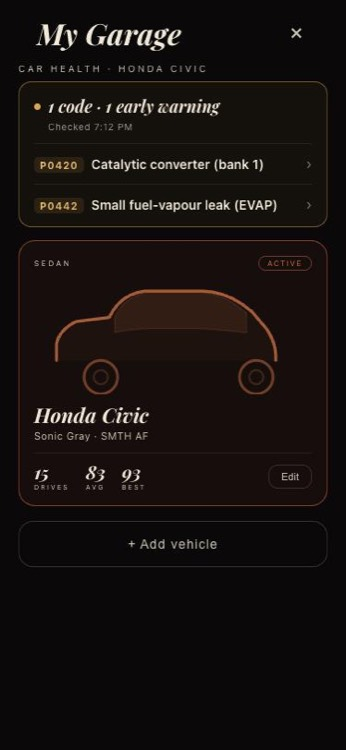
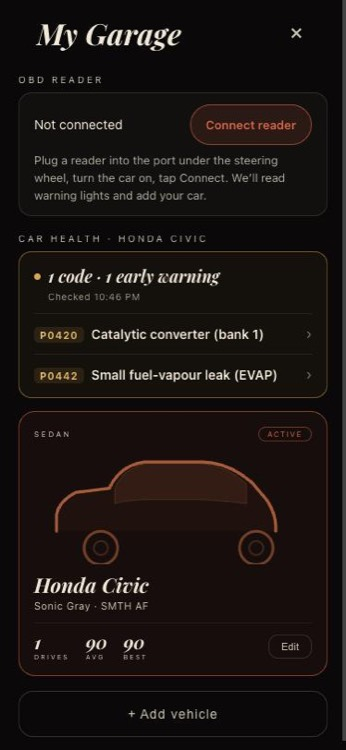
F2 UI review fixes + wireframes update
Garage reader row: label outside the box like Car Health, status wraps
beside the button, green dot + quiet Disconnect when connected, setup help
only until a reader has been set up, 'Name · Connected' instead of PIDs,
44px targets, web build shows a disabled button with a clear message.
Wireframes: new Garage screenshot with the reader row; Sensors note
corrected (the drawer opens fine in real drives); finding removed, F1-F20.

diff --git a/docs/wireframes.html b/docs/wireframes.html
@@ -135,32 +135,31 @@
   <section id="audit">
     <span class="lbl">The audit</span>
     <h2>What we found</h2>
-    <p class="col dim">Ranked by how much it hurts a driver. Numbered F1–F21 so they can be referenced ("fix F3"); each links to the screen where it lives.</p>
+    <p class="col dim">Ranked by how much it hurts a driver. Numbered F1–F20 so they can be referenced ("fix F3"); each links to the screen where it lives.</p>
     <div class="scroll">
       <table>
         <thead><tr><th>#</th><th>Sev</th><th>Flag</th><th>Finding</th><th>Fix</th><th>Where</th></tr></thead>
         <tbody>
           <tr id="f1"><td class="fnum">F1</td><td class="sev s-high">High</td><td><span class="flag f-hidden">Hidden</span></td><td>Coaching cards ("Late braking", "Excellent momentum") are computed after every drive and never shown. Their container is hidden and the score breakdown doesn't include them.</td><td>Give the recap one coaching card under the narrative. This is the next roadmap item (coaching that remembers) anyway.</td><td><a href="#s-recap">Recap</a></td></tr>
-          <tr id="f2"><td class="fnum">F2</td><td class="sev s-high">High</td><td><span class="flag f-missing">Missing link</span></td><td>The only way to connect an OBD reader is inside the "Sensors" debug drawer on the drive screen, and that drawer opens below the bottom of the screen. Garage and Car Health, where people look for it, have no connect button.</td><td>Add "Connect reader" to the Garage's Car Health block; keep auto-reconnect as is.</td><td><a href="#s-drive">Drive</a>, <a href="#s-garage">Garage</a></td></tr>
-          <tr id="f3"><td class="fnum">F3</td><td class="sev s-high">High</td><td><span class="flag f-dead">Dead end</span></td><td>Drive rows in a route's history and in Rewards' recent drives look like list rows but can't be tapped to open the drive.</td><td>Make every drive row open its recap, same as Home's list.</td><td><a href="#s-routes">Routes</a>, <a href="#s-rewards">Rewards</a></td></tr>
-          <tr id="f4"><td class="fnum">F4</td><td class="sev s-med">Med</td><td><span class="flag f-stale">Stale</span></td><td>Ad splash says "7 dimensions scored" (it's 3 since September) and "Free forever / Free · Always" (a paid tier is planned). "Score my first drive" just closes it, and "Skip intro" lands on the intro.</td><td>Fix the stat. Make the button say what it does, or send people into the intro.</td><td><a href="#s-splash">Ad splash</a></td></tr>
-          <tr id="f5"><td class="fnum">F5</td><td class="sev s-med">Med</td><td><span class="flag f-incons">Inconsistent</span></td><td>Post-drive prompts can stack: from drive 2, "What are you driving?" can open on top of the name prompt.</td><td>One queue for every post-drive prompt; at most one per drive.</td><td><a href="#s-prompts">Prompts</a></td></tr>
-          <tr id="f6"><td class="fnum">F6</td><td class="sev s-med">Med</td><td><span class="flag f-incons">Inconsistent</span></td><td>Three different rules decide "improving". In the screenshots, Home says "Pedal smoothness up 9 points" while Trends says "Steady" for the same driver.</td><td>One rule (the Home verdict's), shared everywhere.</td><td><a href="#s-trends">Trends</a></td></tr>
-          <tr id="f7"><td class="fnum">F7</td><td class="sev s-med">Med</td><td><span class="flag f-incons">Inconsistent</span></td><td>Two car prompts: "What are you driving?" (typed, after 2 drives) and "Is this your car?" (from the reader's VIN).</td><td>Keep the VIN prompt. Turn the typed one into a quiet "Add your car" link in the Garage empty state.</td><td><a href="#s-prompts">Prompts</a></td></tr>
-          <tr id="f8"><td class="fnum">F8</td><td class="sev s-med">Med</td><td><span class="flag f-incons">Inconsistent</span></td><td>Two identities: a leaderboard "driver name" (name modal) and a signed-in account. "Set name" and "Join leaderboard" open the same modal.</td><td>One identity. Take the name at sign-in; drop the duplicate button.</td><td><a href="#s-board">Leaderboard</a>, <a href="#s-account">Account</a></td></tr>
-          <tr id="f9"><td class="fnum">F9</td><td class="sev s-med">Med</td><td><span class="flag f-incons">Inconsistent</span></td><td>Back controls differ: × on Recap and Leaderboard, ‹ on Routes, Trends and Rewards. Swipe-from-edge works on all of them.</td><td>‹ for screens, × for sheets and overlays.</td><td><a href="#map">Map</a></td></tr>
-          <tr id="f10"><td class="fnum">F10</td><td class="sev s-med">Med</td><td><span class="flag f-bloat">Bloat</span></td><td>The score breakdown sheet shows ~20 stats, many as "—" (Above limit, Shifts, Coasting, Consistency).</td><td>Show only stats with data. Cut what no driver acts on.</td><td><a href="#s-breakdown">Breakdown</a></td></tr>
-          <tr id="f11"><td class="fnum">F11</td><td class="sev s-med">Med</td><td><span class="flag f-bloat">Bloat</span></td><td>The lifetime sheet repeats Home's stats, and its average (all drives) silently differs from the lifetime score on Home (last 10).</td><td>Fold its one new thing (dimension averages) into Trends; remove the sheet.</td><td><a href="#s-lifetime">Lifetime</a></td></tr>
-          <tr id="f12"><td class="fnum">F12</td><td class="sev s-med">Med</td><td><span class="flag f-missing">Missing link</span></td><td>The drive list only opens by tapping the "Drives" number on Home. Nothing says it's tappable.</td><td>A visible "All drives ›" link, or the list under the stats by default.</td><td><a href="#s-home">Home</a></td></tr>
-          <tr id="f13"><td class="fnum">F13</td><td class="sev s-med">Med</td><td><span class="flag f-incons">Inconsistent</span></td><td>Opening the drive list pushes Routes, Rewards and Board far down, and the rows slide under the fixed Set destination and Start Drive buttons.</td><td>A separate "All drives" screen, or reserve space for the fixed buttons.</td><td><a href="#s-home">Home</a></td></tr>
-          <tr id="f14"><td class="fnum">F14</td><td class="sev s-med">Med</td><td><span class="flag f-incons">Inconsistent</span></td><td>Vehicle form fields have no labels; once filled they read "Honda", "Civic", "2019" with nothing saying which is which. Emoji type icons clash with the line-drawn car on the card.</td><td>Persistent labels above fields; one icon style.</td><td><a href="#s-garage">Garage</a></td></tr>
-          <tr id="f15"><td class="fnum">F15</td><td class="sev s-med">Med</td><td><span class="flag f-bloat">Bloat</span></td><td>The vehicle form asks for insurance (4 fields) and registration (2 fields). Nothing in the app uses them yet.</td><td>Hide until the Concierge uses them.</td><td><a href="#s-garage">Garage</a></td></tr>
-          <tr id="f16"><td class="fnum">F16</td><td class="sev s-low">Low</td><td><span class="flag f-incons">Inconsistent</span></td><td>Back buttons are tiny tap targets: Rewards 7×22 px, Routes 17×34 px (minimum is 44).</td><td>44×44 hit area on every back control.</td><td><a href="#s-rewards">Rewards</a>, <a href="#s-routes">Routes</a></td></tr>
-          <tr id="f17"><td class="fnum">F17</td><td class="sev s-low">Low</td><td><span class="flag f-missing">Missing link</span></td><td>Destination search isn't biased to where you are: a Denver search returns places in Ohio and New York.</td><td>Pass the current location as the search bias.</td><td><a href="#s-dest">Destination</a></td></tr>
-          <tr id="f18"><td class="fnum">F18</td><td class="sev s-low">Low</td><td><span class="flag f-stale">Stale</span></td><td>"This route" in the score breakdown (and the recap's hidden route history) means drives of similar length, not the same road.</td><td>Use Routes (same road) data.</td><td><a href="#s-breakdown">Breakdown</a></td></tr>
-          <tr id="f19"><td class="fnum">F19</td><td class="sev s-low">Low</td><td><span class="flag f-bloat">Bloat</span></td><td>Developer tools in the user's UI: the recap's ↓ JSON export, and tapping the version number to copy a device ID.</td><td>Move behind a debug gesture or a dev build flag.</td><td><a href="#s-recap">Recap</a>, <a href="#s-home">Home</a></td></tr>
-          <tr id="f20"><td class="fnum">F20</td><td class="sev s-low">Low</td><td><span class="flag f-hidden">Hidden</span></td><td>Dead markup and code: five hidden "compat" elements on Home, a hidden block of eight recap widgets still filled on every render, and map event-filter code with no buttons left to trigger it.</td><td>Delete once the coaching card has a real home.</td><td><a href="#s-home">Home</a>, <a href="#s-recap">Recap</a></td></tr>
-          <tr id="f21"><td class="fnum">F21</td><td class="sev s-low">Low</td><td><span class="flag f-incons">Inconsistent</span></td><td>Naming: the button says "Routes", the screen says "My Routes", the empty state says "corridors".</td><td>"Routes" everywhere.</td><td><a href="#s-routes">Routes</a></td></tr>
+          <tr id="f2"><td class="fnum">F2</td><td class="sev s-high">High</td><td><span class="flag f-dead">Dead end</span></td><td>Drive rows in a route's history and in Rewards' recent drives look like list rows but can't be tapped to open the drive.</td><td>Make every drive row open its recap, same as Home's list.</td><td><a href="#s-routes">Routes</a>, <a href="#s-rewards">Rewards</a></td></tr>
+          <tr id="f3"><td class="fnum">F3</td><td class="sev s-med">Med</td><td><span class="flag f-stale">Stale</span></td><td>Ad splash says "7 dimensions scored" (it's 3 since September) and "Free forever / Free · Always" (a paid tier is planned). "Score my first drive" just closes it, and "Skip intro" lands on the intro.</td><td>Fix the stat. Make the button say what it does, or send people into the intro.</td><td><a href="#s-splash">Ad splash</a></td></tr>
+          <tr id="f4"><td class="fnum">F4</td><td class="sev s-med">Med</td><td><span class="flag f-incons">Inconsistent</span></td><td>Post-drive prompts can stack: from drive 2, "What are you driving?" can open on top of the name prompt.</td><td>One queue for every post-drive prompt; at most one per drive.</td><td><a href="#s-prompts">Prompts</a></td></tr>
+          <tr id="f5"><td class="fnum">F5</td><td class="sev s-med">Med</td><td><span class="flag f-incons">Inconsistent</span></td><td>Three different rules decide "improving". In the screenshots, Home says "Pedal smoothness up 9 points" while Trends says "Steady" for the same driver.</td><td>One rule (the Home verdict's), shared everywhere.</td><td><a href="#s-trends">Trends</a></td></tr>
+          <tr id="f6"><td class="fnum">F6</td><td class="sev s-med">Med</td><td><span class="flag f-incons">Inconsistent</span></td><td>Two car prompts: "What are you driving?" (typed, after 2 drives) and "Is this your car?" (from the reader's VIN).</td><td>Keep the VIN prompt. Turn the typed one into a quiet "Add your car" link in the Garage empty state.</td><td><a href="#s-prompts">Prompts</a></td></tr>
+          <tr id="f7"><td class="fnum">F7</td><td class="sev s-med">Med</td><td><span class="flag f-incons">Inconsistent</span></td><td>Two identities: a leaderboard "driver name" (name modal) and a signed-in account. "Set name" and "Join leaderboard" open the same modal.</td><td>One identity. Take the name at sign-in; drop the duplicate button.</td><td><a href="#s-board">Leaderboard</a>, <a href="#s-account">Account</a></td></tr>
+          <tr id="f8"><td class="fnum">F8</td><td class="sev s-med">Med</td><td><span class="flag f-incons">Inconsistent</span></td><td>Back controls differ: × on Recap and Leaderboard, ‹ on Routes, Trends and Rewards. Swipe-from-edge works on all of them.</td><td>‹ for screens, × for sheets and overlays.</td><td><a href="#map">Map</a></td></tr>
+          <tr id="f9"><td class="fnum">F9</td><td class="sev s-med">Med</td><td><span class="flag f-bloat">Bloat</span></td><td>The score breakdown sheet shows ~20 stats, many as "—" (Above limit, Shifts, Coasting, Consistency).</td><td>Show only stats with data. Cut what no driver acts on.</td><td><a href="#s-breakdown">Breakdown</a></td></tr>
+          <tr id="f10"><td class="fnum">F10</td><td class="sev s-med">Med</td><td><span class="flag f-bloat">Bloat</span></td><td>The lifetime sheet repeats Home's stats, and its average (all drives) silently differs from the lifetime score on Home (last 10).</td><td>Fold its one new thing (dimension averages) into Trends; remove the sheet.</td><td><a href="#s-lifetime">Lifetime</a></td></tr>
+          <tr id="f11"><td class="fnum">F11</td><td class="sev s-med">Med</td><td><span class="flag f-missing">Missing link</span></td><td>The drive list only opens by tapping the "Drives" number on Home. Nothing says it's tappable.</td><td>A visible "All drives ›" link, or the list under the stats by default.</td><td><a href="#s-home">Home</a></td></tr>
+          <tr id="f12"><td class="fnum">F12</td><td class="sev s-med">Med</td><td><span class="flag f-incons">Inconsistent</span></td><td>Opening the drive list pushes Routes, Rewards and Board far down, and the rows slide under the fixed Set destination and Start Drive buttons.</td><td>A separate "All drives" screen, or reserve space for the fixed buttons.</td><td><a href="#s-home">Home</a></td></tr>
+          <tr id="f13"><td class="fnum">F13</td><td class="sev s-med">Med</td><td><span class="flag f-incons">Inconsistent</span></td><td>Vehicle form fields have no labels; once filled they read "Honda", "Civic", "2019" with nothing saying which is which. Emoji type icons clash with the line-drawn car on the card.</td><td>Persistent labels above fields; one icon style.</td><td><a href="#s-garage">Garage</a></td></tr>
+          <tr id="f14"><td class="fnum">F14</td><td class="sev s-med">Med</td><td><span class="flag f-bloat">Bloat</span></td><td>The vehicle form asks for insurance (4 fields) and registration (2 fields). Nothing in the app uses them yet.</td><td>Hide until the Concierge uses them.</td><td><a href="#s-garage">Garage</a></td></tr>
+          <tr id="f15"><td class="fnum">F15</td><td class="sev s-low">Low</td><td><span class="flag f-incons">Inconsistent</span></td><td>Back buttons are tiny tap targets: Rewards 7×22 px, Routes 17×34 px (minimum is 44).</td><td>44×44 hit area on every back control.</td><td><a href="#s-rewards">Rewards</a>, <a href="#s-routes">Routes</a></td></tr>
+          <tr id="f16"><td class="fnum">F16</td><td class="sev s-low">Low</td><td><span class="flag f-missing">Missing link</span></td><td>Destination search isn't biased to where you are: a Denver search returns places in Ohio and New York.</td><td>Pass the current location as the search bias.</td><td><a href="#s-dest">Destination</a></td></tr>
+          <tr id="f17"><td class="fnum">F17</td><td class="sev s-low">Low</td><td><span class="flag f-stale">Stale</span></td><td>"This route" in the score breakdown (and the recap's hidden route history) means drives of similar length, not the same road.</td><td>Use Routes (same road) data.</td><td><a href="#s-breakdown">Breakdown</a></td></tr>
+          <tr id="f18"><td class="fnum">F18</td><td class="sev s-low">Low</td><td><span class="flag f-bloat">Bloat</span></td><td>Developer tools in the user's UI: the recap's ↓ JSON export, and tapping the version number to copy a device ID.</td><td>Move behind a debug gesture or a dev build flag.</td><td><a href="#s-recap">Recap</a>, <a href="#s-home">Home</a></td></tr>
+          <tr id="f19"><td class="fnum">F19</td><td class="sev s-low">Low</td><td><span class="flag f-hidden">Hidden</span></td><td>Dead markup and code: five hidden "compat" elements on Home, a hidden block of eight recap widgets still filled on every render, and map event-filter code with no buttons left to trigger it.</td><td>Delete once the coaching card has a real home.</td><td><a href="#s-home">Home</a>, <a href="#s-recap">Recap</a></td></tr>
+          <tr id="f20"><td class="fnum">F20</td><td class="sev s-low">Low</td><td><span class="flag f-incons">Inconsistent</span></td><td>Naming: the button says "Routes", the screen says "My Routes", the empty state says "corridors".</td><td>"Routes" everywhere.</td><td><a href="#s-routes">Routes</a></td></tr>
         </tbody>
       </table>
     </div>
@@ -261,7 +260,7 @@ const SCREENS = [
 
  { id:'s-drive', name:'Drive', how:'while recording', purpose:'Glanceable only. Read it in peripheral vision: the edges glow with what the car is doing, the numbers confirm it, and one message at a time explains it.',
    shots:[{img:'drive', pins:[[1,28,25],[3,22,170],[4,22,285],[5,22,400],[7,138,608],[8,22,680],[9,22,773]]}],
-   rows:[[1,'Source','Which sensors are feeding the score ("Demo drive" in this shot)','—','Shows "Acquiring GPS…" until the first fix.'],[2,'Pace strip','Target arrival and how far ahead/behind (not in this shot)','—','Only with a destination set.'],[3,'Heroes','Speed and live score','—','Screen edges glow green / amber / red (top = brake, bottom = accel, sides = turns).'],[4,'Clean streak','Miles since your last harsh input vs your best','—',''],[5,'Inputs ribbon','Last 90 s of pedal inputs; flat line = smooth','—',''],[6,'Insight / music line','One live insight at a time, or the Spotify track with like / play-pause / next (empty in this shot)','—','Spotify controls only when connected.'],[7,'Sensors','Debug drawer: live sensor chart, Connect OBD + adapter list, Connect Spotify','opens drawer',F.missing+'The only place to connect an OBD reader, and the drawer opens below the bottom of the screen: tapping it looks like nothing happened.'],[8,'Live stats','Stops · miles · avg · time','—',''],[9,'End Drive','Stops recording','Recap','Auto-end can also ask "Looks like you\'ve parked" when the reader drops.']] },
+   rows:[[1,'Source','Which sensors are feeding the score ("Demo drive" in this shot)','—','Shows "Acquiring GPS…" until the first fix.'],[2,'Pace strip','Target arrival and how far ahead/behind (not in this shot)','—','Only with a destination set.'],[3,'Heroes','Speed and live score','—','Screen edges glow green / amber / red (top = brake, bottom = accel, sides = turns).'],[4,'Clean streak','Miles since your last harsh input vs your best','—',''],[5,'Inputs ribbon','Last 90 s of pedal inputs; flat line = smooth','—',''],[6,'Insight / music line','One live insight at a time, or the Spotify track with like / play-pause / next (empty in this shot)','—','Spotify controls only when connected.'],[7,'Sensors','Bottom sheet: live sensor chart, Connect reader + adapter list, Connect Spotify','opens sheet','Pill shows "OBD <rpm>" while a reader is live. The reader can also be connected from the Garage.'],[8,'Live stats','Stops · miles · avg · time','—',''],[9,'End Drive','Stops recording','Recap','Auto-end can also ask "Looks like you\'ve parked" when the reader drops.']] },
 
  { id:'s-recap', name:'Recap', how:'after End Drive, or any drive row', purpose:'Tell the story of one drive on one screen with no scrolling: what happened, where, and what it means for you.',
    shots:[{img:'recap', pins:[[1,60,29],[2,22,276],[3,22,358],[5,22,435],[6,22,698],[7,22,781]]}],
@@ -295,9 +294,9 @@ const SCREENS = [
    shots:[{img:'board', pins:[[1,39,36],[2,20,68],[3,20,126],[4,20,254]]}],
    rows:[[1,'Back','Back to Home','× Home',F.incons+'× instead of ‹.'],[2,'Tagline','"Who\'s the smoothest operator?"','—',''],[3,'Your card','Your rank, name, score; Edit name (Set name before one exists)','Name modal',''],[4,'Top drivers','Server-built ranking','—',F.incons+'This demo device (15 local drives, not signed in) is told "Three scored drives puts you on the board."'],[5,'Join CTA (not in this shot)','Shown when you have no name','Name modal',F.incons+'Same modal as Set name. The name is separate from your account.']] },
 
- { id:'s-garage', name:'Garage', how:'Home → Garage card', purpose:'Your cars and their health. The reader adds cars by VIN; you can also add them by hand.',
-   shots:[{img:'garage', cap:'My Garage', pins:[[1,320,36],[2,20,166],[3,20,404],[4,20,589]]},{img:'vehicle-form', cap:'Edit vehicle', pins:[[5,20,165],[6,20,345],[7,20,697]]}],
-   rows:[[1,'Close','Back to Home','× Home',''],[2,'Car health','Last trouble-code read: headline, check-engine light, each code with an urgency colour; tap a code for its explanation','expand code','Only after a reader has connected. '+F.missing+'No "Connect reader" here.'],[3,'Vehicle card','Silhouette or icon, name, colour · plate, drives / avg / best, Edit','tap: make active · Edit: form',''],[4,'Add vehicle','Opens an empty form','Vehicle form',''],[5,'Type + icon','Body type grid; "Add vehicle icon" (editing only) opens the icon picker','Icon picker',F.incons+'Emoji car icons here, line-drawn silhouette on the card.'],[6,'Details','Make, model, year, colour, plate, VIN','—',F.incons+'No labels: once filled, the fields just read "Honda", "Civic", "2019"… VIN fills itself when the reader identifies the car.'],[7,'Insurance + registration','Provider, policy, expiry, agent; state, expiry','—',F.bloat+'Nothing uses these yet.'],[8,'Save / Delete (below the fold)','Saves; Delete appears when editing','Garage list','']] },
+ { id:'s-garage', name:'Garage', how:'Home → Garage card', purpose:'Your cars, their health, and the OBD reader. The reader adds cars by VIN; you can also add them by hand.',
+   shots:[{img:'garage', cap:'My Garage', pins:[[1,320,36],[2,20,135],[3,20,350],[4,20,590],[5,20,773]]},{img:'vehicle-form', cap:'Edit vehicle', pins:[[6,20,165],[7,20,345],[8,20,697]]}],
+   rows:[[1,'Close','Back to Home','× Home',''],[2,'OBD reader','Reader status, Connect reader / Disconnect, adapter list, setup help (help shows until a reader has been set up once)','Connect: scan for adapters','Same controls as the Sensors drawer, always in sync. Connecting here never starts a drive. Green dot + quiet Disconnect when connected. Web app: button disabled, "Connect a reader from the Smooth AF iPhone app."'],[3,'Car health','Last trouble-code read: headline, check-engine light, each code with an urgency colour; tap a code for its explanation','expand code','Only after a reader has connected.'],[4,'Vehicle card','Silhouette or icon, name, colour · plate, drives / avg / best, Edit','tap: make active · Edit: form',''],[5,'Add vehicle','Opens an empty form','Vehicle form',''],[6,'Type + icon','Body type grid; "Add vehicle icon" (editing only) opens the icon picker','Icon picker',F.incons+'Emoji car icons here, line-drawn silhouette on the card.'],[7,'Details','Make, model, year, colour, plate, VIN','—',F.incons+'No labels: once filled, the fields just read "Honda", "Civic", "2019"… VIN fills itself when the reader identifies the car.'],[8,'Insurance + registration','Provider, policy, expiry, agent; state, expiry','—',F.bloat+'Nothing uses these yet.'],[9,'Save / Delete (below the fold)','Saves; Delete appears when editing','Garage list','']] },
 
  { id:'s-dest', name:'Destination', how:'Home → Set destination', purpose:'Set where you\'re going so the drive gets an ETA to beat.',
    shots:[{img:'destination', pins:[[1,341,36],[2,20,87],[4,20,148],[3,20,334]]}],

diff --git a/src/ui/obd.js b/src/ui/obd.js
@@ -141,7 +141,8 @@ const both = id => [el(id), el('g-' + id)].filter(Boolean);
 const CONNECT_LABEL = 'Connect reader';
 const BTN = {
   set textContent(t){ both('obd-connect').forEach(b => { b.textContent = t; }); },
-  set disabled(v){ both('obd-connect').forEach(b => { b.disabled = v; }); },
+  // The Garage button stays disabled on the web build, which can't scan for readers.
+  set disabled(v){ both('obd-connect').forEach(b => { b.disabled = v || (b.id === 'g-obd-connect' && !Capacitor.isNativePlatform()); }); },
 };
 // True while a manual connect is in flight, so the background reconnect loop
 // can't start a second connection (or a drive) on top of it.
@@ -151,7 +152,20 @@ const escapeHtml = s => String(s ?? '').replace(/[&<>"']/g, c =>
 
 function setStatus(text){
   both('obd-status').forEach(n => { n.textContent = text; });
-  el('g-obd-help')?.classList.toggle('hidden', isConnected());
+  syncGarageReader();
+}
+
+/**
+ * Garage reader row: green dot + quiet Disconnect when connected; setup help
+ * only until a reader has been set up once; on the web build (no Bluetooth
+ * scanning) a disabled button instead of one that can't work.
+ */
+function syncGarageReader(){
+  const connected = isConnected();
+  el('g-obd-reader')?.classList.toggle('is-connected', connected);
+  el('g-obd-help')?.classList.toggle('hidden', connected || Boolean(loadDevice()) || !Capacitor.isNativePlatform());
+  const gBtn = el('g-obd-connect');
+  if (gBtn && !Capacitor.isNativePlatform()) gBtn.disabled = true;
 }
 
 /**
@@ -416,7 +430,7 @@ async function startScan(){
     // The web build can't scan for Bluetooth readers (Safari has no Web
     // Bluetooth; Chrome has no LE scan); say so instead of the browser's error.
     setStatus(!Capacitor.isNativePlatform()
-      ? 'Readers connect in the Smooth AF iPhone app.'
+      ? 'Connect a reader from the Smooth AF iPhone app.'
       : `Couldn’t scan — ${err?.message || 'Bluetooth unavailable'}`);
     return;
   }
@@ -443,7 +457,7 @@ async function connectChosen(deviceId, name, { startDrive = true } = {}){
     rememberDevice(info.deviceId, info.name);
     showScan(false);
     if (btn) btn.textContent = 'Disconnect';
-    setStatus(`${info.name} · ${info.supported?.length || 0} PIDs`);
+    setStatus(`${info.name} · Connected`);
     setPill(true);
     startPolling();
     onCarLinked();
@@ -473,7 +487,7 @@ async function useSystemPicker({ startDrive = true } = {}){
     const info = await connect({ onStatus: setStatus });
     rememberDevice(info.deviceId, info.name);
     if (btn) btn.textContent = 'Disconnect';
-    setStatus(`${info.name} · ${info.supported?.length || 0} PIDs`);
+    setStatus(`${info.name} · Connected`);
     setPill(true);
     startPolling();
     onCarLinked();
@@ -537,7 +551,7 @@ async function autoReconnect(){
     const info = await reconnectSaved(saved.deviceId, saved.name, { onStatus: setStatus });
     rememberDevice(info.deviceId, info.name);
     if (btn) btn.textContent = 'Disconnect';
-    setStatus(`${info.name} · ${info.supported?.length || 0} PIDs`);
+    setStatus(`${info.name} · Connected`);
     setPill(true);
     startPolling();
     onCarLinked();
@@ -568,7 +582,8 @@ export function wireObdPanel(){
   });
   el('g-obd-scan-fallback')?.addEventListener('click', () => useSystemPicker({ startDrive: false }));
   BTN.textContent = isConnected() ? 'Disconnect' : CONNECT_LABEL;
-  el('g-obd-help')?.classList.toggle('hidden', isConnected());
+  if (!Capacitor.isNativePlatform()) el('g-obd-status') && (el('g-obd-status').textContent = 'Connect a reader from the Smooth AF iPhone app.');
+  syncGarageReader();
   renderReadout();
   renderLiveStrip();
   setPill(isConnected());

diff --git a/src/styles/garage.css b/src/styles/garage.css
@@ -36,16 +36,18 @@
   .gs-card-footer{display:flex;align-items:center;justify-content:space-between;margin-top:12px;padding-top:10px;border-top:1px solid rgba(244,235,217,.07)}
   .gs-card-stats{display:flex;gap:18px}
   /* OBD reader — connect from the Garage (mirrors the Sensors drawer controls) */
-  .gs-reader{border:1px solid rgba(244,235,217,.12);border-radius:14px;padding:14px 16px;margin:4px 0 14px;background:rgba(244,235,217,.03)}
-  .gs-reader-row{display:flex;align-items:center;justify-content:space-between;gap:12px}
-  .gs-reader-text{min-width:0}
-  .gs-reader-title{font-family:var(--sans);font-size:10px;letter-spacing:.28em;text-transform:uppercase;color:var(--cream-dim)}
-  .gs-reader-status{font-family:var(--sans);font-size:14px;color:var(--cream);margin-top:3px;overflow-wrap:anywhere}
+  .gs-reader{border:1px solid rgba(244,235,217,.12);border-radius:14px;padding:12px 16px;margin:0 0 14px;background:rgba(244,235,217,.03)}
+  .gs-reader-row{display:flex;flex-wrap:wrap;align-items:center;justify-content:space-between;gap:10px 12px}
+  .gs-reader-status{flex:1 1 130px;min-width:0;font-family:var(--sans);font-size:14px;line-height:1.4;color:var(--cream);overflow-wrap:anywhere;display:flex;align-items:center;gap:8px}
+  .gs-reader.is-connected .gs-reader-status::before{content:"";width:7px;height:7px;border-radius:50%;background:#6FB669;flex-shrink:0}
   .gs-reader-btn{appearance:none;cursor:pointer;flex-shrink:0;min-height:44px;padding:0 16px;border-radius:999px;border:1px solid rgba(232,93,58,.55);background:rgba(232,93,58,.12);color:var(--tang);font-family:var(--sans);font-size:13px;font-weight:600}
-  .gs-reader-btn:disabled{opacity:.55;cursor:default}
-  .gs-reader-help{font-family:var(--sans);font-size:12.5px;line-height:1.5;color:rgba(244,235,217,.7);margin:10px 0 0}
+  .gs-reader.is-connected .gs-reader-btn{border-color:rgba(244,235,217,.2);background:none;color:var(--cream-dim)}
+  .gs-reader-btn:disabled{opacity:.45;cursor:default}
+  .gs-reader-help{font-family:var(--sans);font-size:12.5px;line-height:1.5;color:rgba(244,235,217,.7);margin:8px 0 0}
   .gs-reader-help.hidden{display:none}
   .gs-reader .obd-scan{padding-inline:0;padding-bottom:0}
+  .gs-reader .obd-scan-fallback{min-height:44px}
+  .gs-reader .obd-device-tag{display:none}
   /* Car Health — last trouble-code read for the active vehicle */
   .gs-health{border:1px solid rgba(244,235,217,.12);border-radius:14px;padding:14px 16px;margin:4px 0 14px;background:rgba(244,235,217,.03)}
   .gs-health--attention{border-color:rgba(224,80,58,.55);background:rgba(224,80,58,.06)}

diff --git a/index.html b/index.html
@@ -497,18 +497,16 @@
       <!-- OBD reader: same controls as the drive screen's Sensors drawer (ids
            prefixed g-, kept in sync by ui/obd.js). Connecting here never
            starts a drive. -->
-      <section class="gs-reader" aria-label="OBD reader">
+      <div class="gs-section-label">OBD reader</div>
+      <section class="gs-reader" id="g-obd-reader" aria-label="OBD reader">
         <div class="gs-reader-row">
-          <div class="gs-reader-text">
-            <div class="gs-reader-title">OBD reader</div>
-            <div id="g-obd-status" class="gs-reader-status" aria-live="polite">Not connected</div>
-          </div>
+          <div id="g-obd-status" class="gs-reader-status" aria-live="polite">Not connected</div>
           <button id="g-obd-connect" class="gs-reader-btn" type="button">Connect reader</button>
         </div>
-        <p id="g-obd-help" class="gs-reader-help">Plug an OBD-II reader into the port under the dashboard, turn the car on, then connect. After that it reconnects on its own, reads your trouble codes and adds the car here.</p>
+        <p id="g-obd-help" class="gs-reader-help">Plug a reader into the port under the steering wheel, turn the car on, tap Connect. We&rsquo;ll read warning lights and add your car.</p>
         <div id="g-obd-scan" class="obd-scan hidden">
           <div id="g-obd-scan-list" class="obd-scan-list"></div>
-          <button id="g-obd-scan-fallback" class="obd-scan-fallback" type="button">Don’t see it? Open full device list</button>
+          <button id="g-obd-scan-fallback" class="obd-scan-fallback" type="button">Don&rsquo;t see it? Open full device list</button>
         </div>
       </section>
       <div id="garage-list"></div>

diff --git a/public/sw.js b/public/sw.js
@@ -2,7 +2,7 @@
 // Network-first for app shell so updates land immediately when online.
 // Cache-first fallback for offline + opportunistic CDN caching.
 
-const CACHE = 'smoothaf-v144';
+const CACHE = 'smoothaf-v145';
 const SHELL = [
   './',
   './index.html',
